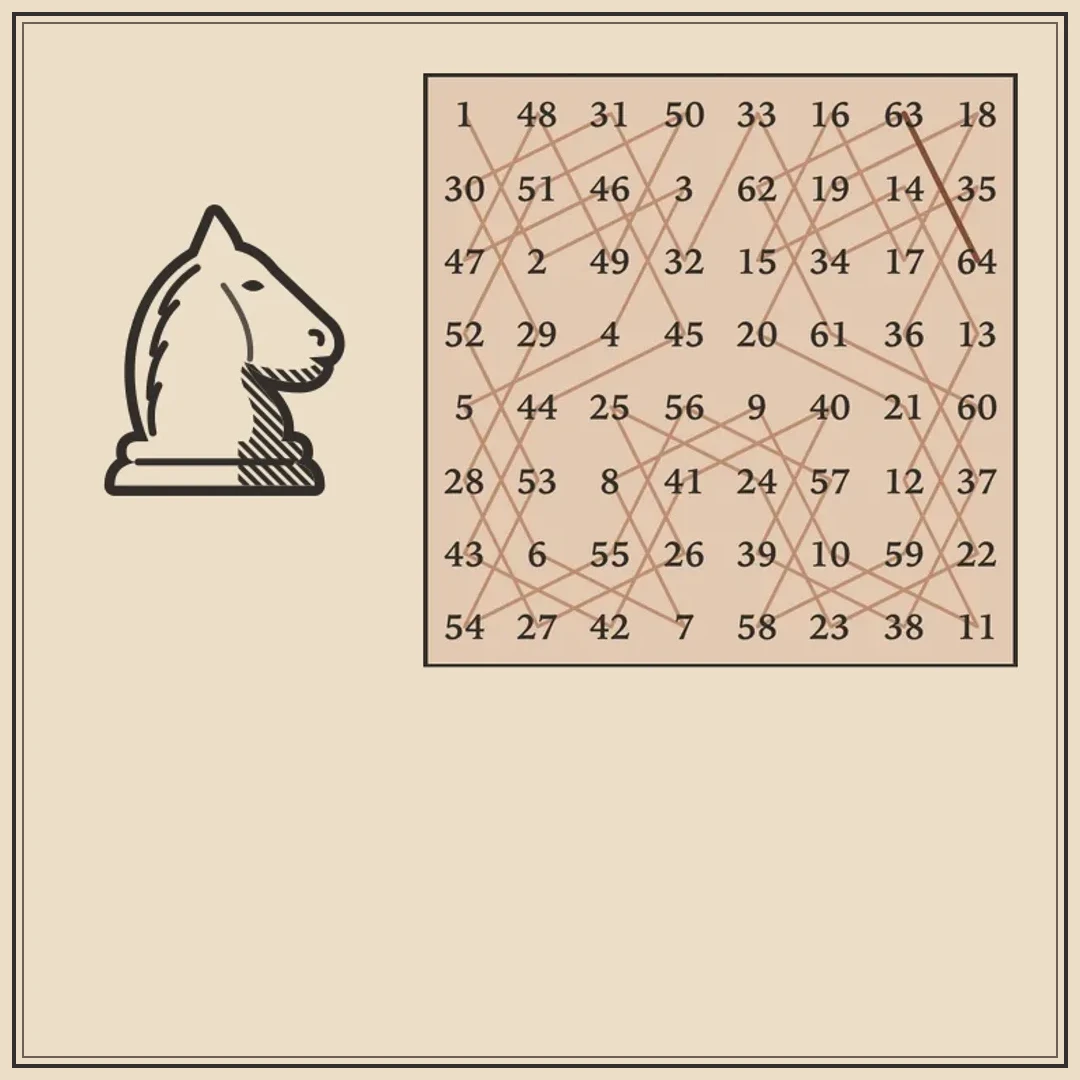
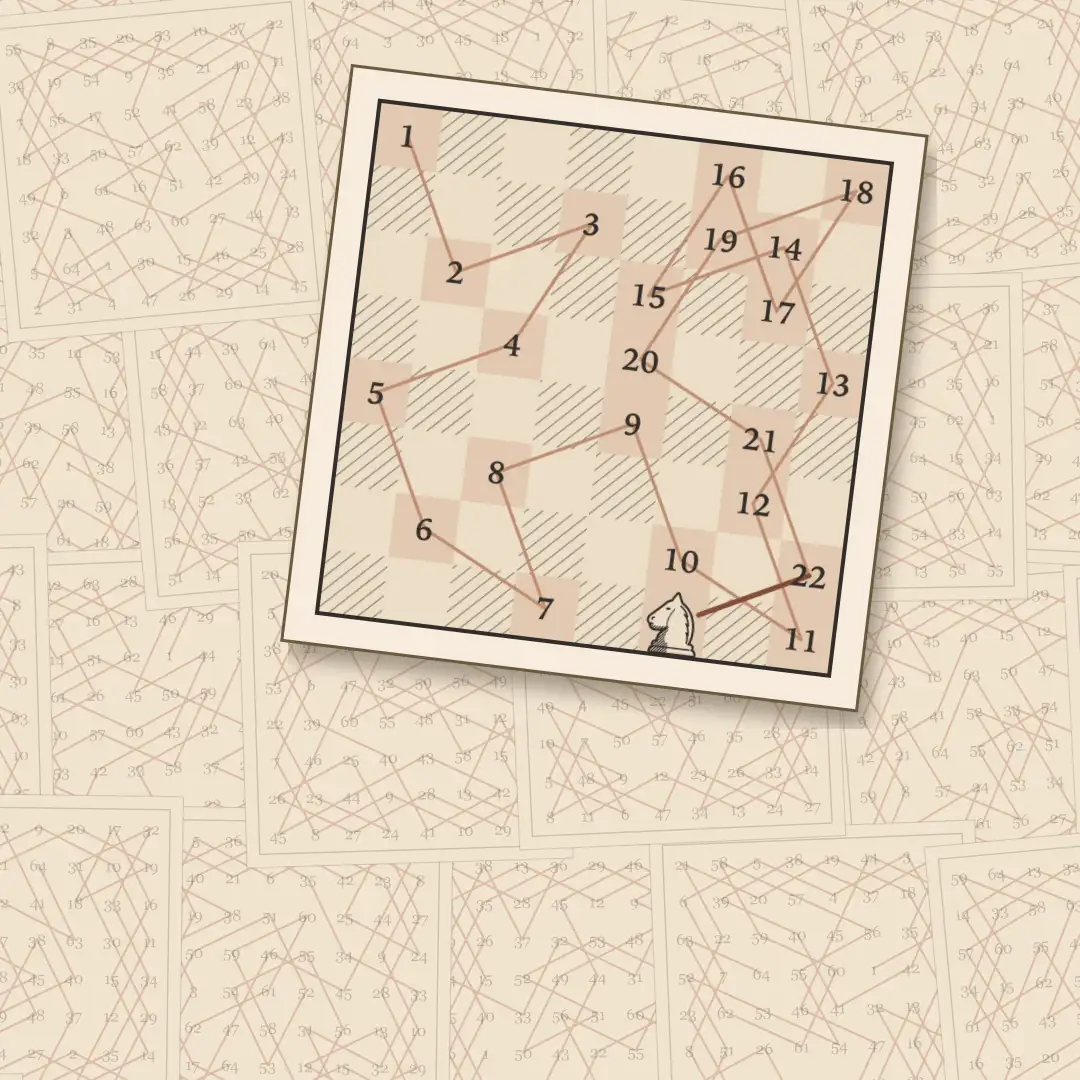
feat(knights-tour): 平台三張圖改成真的棋盤＋背後不同路線的手稿（11/3 Zach 選 B）
照 Wall Go、尼泊爾虎棋：遊戲裡真的 8×8 棋盤（照歐拉走了 23 步）帶紙邊斜放在右邊，
底是一疊散開的手稿紙，每張一條不同的騎士巡遊（Warnsdorff＋固定種子，逐條驗過合法）。
scripts/knights-tour/build-key-art.mjs 產生 hero-wide、hero-square、card 三張；前景是截圖 board.webp。

Claude-Session: https://claude.ai/code/session_014xmu4NJqhaE3mUfTMmWSRQ

diff --git a/app/games/catalog.ts b/app/games/catalog.ts
@@ -101,7 +101,7 @@ export const SEASONS: Season[] = [
       { name: 'Big Small', names: { 'zh-TW': '大或小', 'zh-Hans': '大或小' } },
       { name: 'Question and Truth', names: { 'zh-TW': '提問與真相', 'zh-Hans': '提问与真相' } },
       { name: "Knight's Tour", names: { 'zh-TW': '騎士巡遊', 'zh-Hans': '骑士巡游' }, playable: routes.KNIGHTS_TOUR,
-        // 小卡片是 plate.webp 左邊的空白處加上對局那隻騎士（10/25 Zach：「視覺圖偏空泛」）；大卡片照舊 plate.webp —— 桌機字壓在左邊，騎士會在字底下
+        // 三張都是真的棋盤＋背後不同路線的手稿（11/3 Zach 選 B），scripts/knights-tour/build-key-art.mjs 產生
         look: { card: 'bg-[#edddc7] text-[#322e2a]', wipe: '#edddc7', art: '/games/knights-tour/card.webp', hero: '/games/knights-tour/hero-wide.webp', heroSquare: '/games/knights-tour/hero-square.webp', cover: true, entrance: 'knights-tour', rules: routes.trialRules(routes.KNIGHTS_TOUR),
           lettering: { font: 'kt-serif font-normal italic', spellsName: true } } },
     ],

diff --git a/CLAUDE.md b/CLAUDE.md
@@ -230,7 +230,7 @@ nudge { by, at }          最近一次「催一下」
     **2026-11-02 上線**（v26.11.9）：首頁、規則頁 `launchedGameMetadata`、進 sitemap；GA 送同一套事件（`game: 'blind-gomoku'`），難度多一級 `show`（照節目的 AI）。
     對局畫面（11/2 Zach）：兩方是**一條分段條**，手機與桌機同一條（計分牌、上下夾、分段條三種裡挑的），輪到的那半是青綠拼布；自己那半（連線、對電腦）一圈 2px 實線（實線框、布邊、小人三種裡挑的；畫面上不寫「你／AI」）。手機的狀態＋提示固定兩行高（提示一出一沒棋盤會跳），「點交叉點瞄準」改寫在「下子」鈕上（先選位置）。結算關掉後狀態那一塊換成「黑方勝 · 看結算」。
 
-  - 騎士巡遊（`feat/game-knights-tour`）：原件是歐拉 1759 的數學版畫、18 世紀紅粉筆素描；最外緣銅版雙線框（`.kt-frame`）；主視覺 `plate.webp`，首頁 Fig. 1 是歐拉的走法（`euler.ts`，有測試）。平台小卡片 `card.webp` 是同一張、左邊空白的紙上多一隻對局裡的騎士（10/25 Zach：「偏空泛」；2.1 倍、對局同線寬，夾在「可以玩」與兩行的名字（中文名＋襯線斜體的 Knight’s Tour）中間，細線版與跳進「1」的弧線也試過）；大卡片照舊 `plate.webp`（桌機字壓在左邊，騎士會被字蓋住）。favicon 是紙上一枚銅版畫的騎士（對局裡同一隻，線條加粗）、外圈一道墨線（`public/icons/knights-tour.*`）。整頁的字（按鈕、說明、彈窗、分享圖）是 Noto Serif，各語系跟名字字標同一套（`scripts/game-fonts/knights-tour.mjs`，10/25），拉丁字與數字照舊 `.kt-serif`。
+  - 騎士巡遊（`feat/game-knights-tour`）：原件是歐拉 1759 的數學版畫、18 世紀紅粉筆素描；最外緣銅版雙線框（`.kt-frame`）；主視覺 `plate.webp`，首頁 Fig. 1 是歐拉的走法（`euler.ts`，有測試）。平台上的三張圖（大卡片 `hero-wide.webp`、手機方圖 `hero-square.webp`、小卡片 `card.webp`）照 Wall Go、虎棋的做法：**遊戲裡真的棋盤**（練習 8×8 照歐拉走了 23 步）帶紙邊斜放在右邊，底是一疊散開的手稿紙，每張是一條**不同的**騎士巡遊（11/3 Zach 從 A 紙底／B 學虎棋／C 棋盤放大裡選 B，「背後的棋盤不要重複，要有不同路線」）；`scripts/knights-tour/build-key-art.mjs` 產生（路線用 Warnsdorff＋固定種子，逐條驗過），先前的 plate.webp 版被嫌空白太多、騎士擺中間又怪。favicon 是紙上一枚銅版畫的騎士（對局裡同一隻，線條加粗）、外圈一道墨線（`public/icons/knights-tour.*`）。整頁的字（按鈕、說明、彈窗、分享圖）是 Noto Serif，各語系跟名字字標同一套（`scripts/game-fonts/knights-tour.mjs`，10/25），拉丁字與數字照舊 `.kt-serif`。
     聲音是歐拉那個年代的書房（`knights-tour/sounds.ts`，配方寫在檔頭）：騎士每跳一步彈一聲大鍵琴、音高看落在第幾列（D 大調，整條路就是一段旋律），點錯是鵝毛筆刮紙、悔棋是擦紅粉筆、重來是翻一頁紙，走完琶音、封閉巡遊再加一段終止式顫音；聲音開關在對局右上（手機）／標題旁（桌機）。
     騎士本身畫在 `knightArt.ts`（10/25 Zach：「騎士希望可以好看一點」；銅版畫、墨色圓章、紅粉筆的馬三種裡他選了銅版畫，另外兩種刪掉了；對局的 SVG、規則圖與分享圖的 Canvas 讀同一份圖層），面向前進的方向（往左跳就左右翻）。
     騎士沿「日」字真的跳過去（10/25 Zach：「也許可以有跳過去的動畫」）：蹲一下 → 沿先長邊後短邊的弧線拋起、空中拉長 → 落地壓扁再彈回，320ms、約 224ms 落地，腳下一團排線的影子跟著、紅粉筆跟著畫過去（`motion.ts`，只動 transform／opacity、關鍵影格事先算好）。
